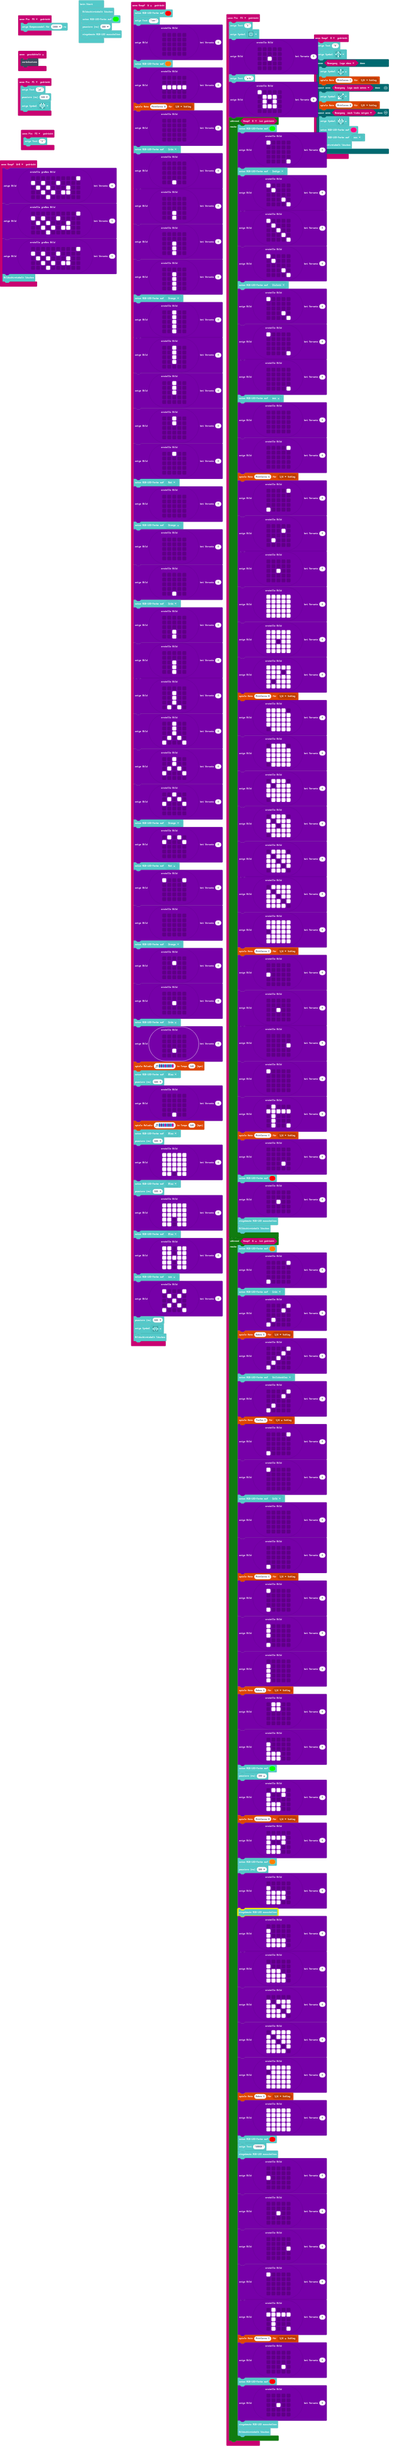
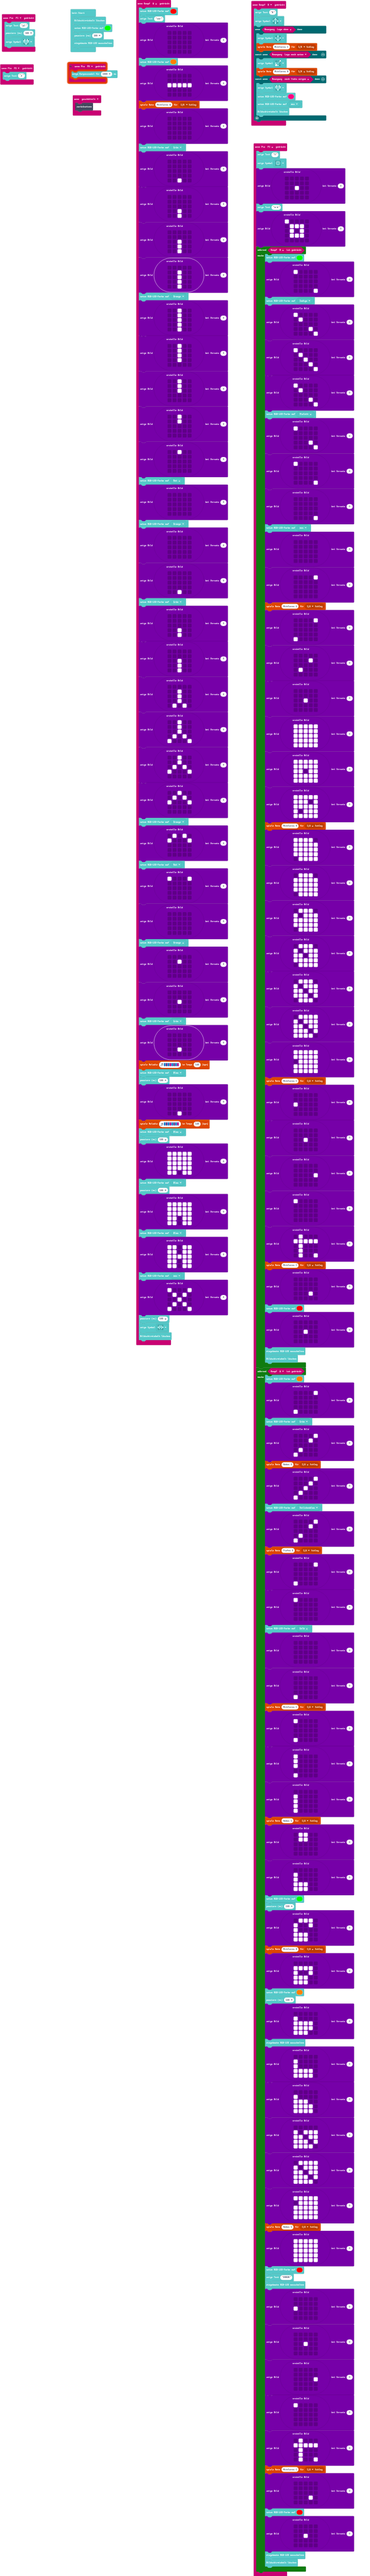
Aktualisiere main.blocks, main.ts

diff --git a/main.ts b/main.ts
@@ -721,30 +721,6 @@ input.onPinPressed(TouchPin.P2, function () {
 input.onGesture(Gesture.Shake, function () {
     control.reset()
 })
-input.onButtonPressed(Button.AB, function () {
-    images.createBigImage(`
-        . . . . . . . . . #
-        # . # . . # . . . .
-        . # . # . . . # . .
-        . . # . # . # # . .
-        . . . # . . . . . .
-        `).showImage(0)
-    images.createBigImage(`
-        . . . . . . . . . #
-        # . # . . # . . . .
-        . # . # . . . # . .
-        . . # . # . # # . .
-        . . . # . . . . . .
-        `).showImage(1)
-    images.createBigImage(`
-        . . . . . . . . . #
-        # . # . . # . . . .
-        . # . # . . . # . .
-        . . # . # . # # . .
-        . . . # . . . . . .
-        `).showImage(1)
-    basic.clearScreen()
-})
 input.onButtonPressed(Button.B, function () {
     basic.showString("B")
     basic.showIcon(IconNames.ArrowNorth)
